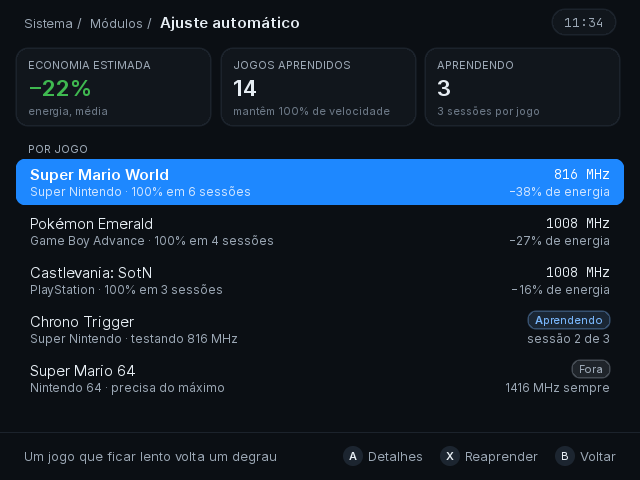
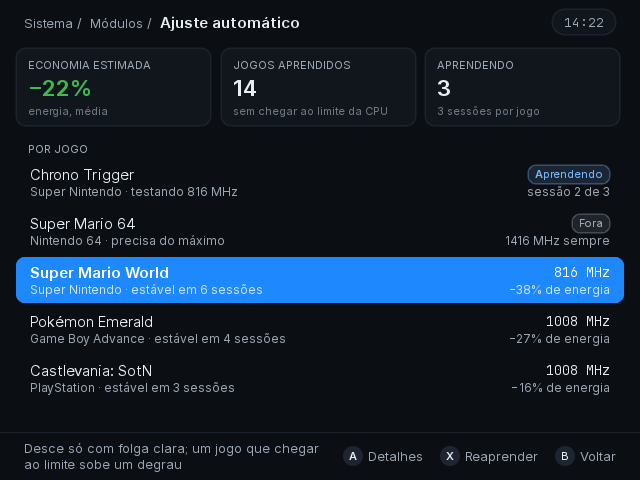
fix(ajuste-cpu): learn only from clear, active headroom
Sessions mostly idle (pause, menu) no longer count, and the ceiling goes
down only with clear room (p95 under 75 % and no second at the limit).
The texts speak of CPU occupancy and time at the limit, never speed;
the page says it does not count frames. The list sends the learning
games first, then the ones left out, then the learned, at most 20 items
with a last one counting the rest. A host test covers all of it.

diff --git a/crates/archr-ui/tests/support/settings_capture.rs b/crates/archr-ui/tests/support/settings_capture.rs
@@ -2669,14 +2669,28 @@ fn tune_pages(language: &str, picture: &std::path::Path) -> Vec<(&'static str, S
         tone,
         ..Item::default()
     };
-    let learned = |system: &str, n: &str| {
-        tr(
-            "@sub.learned",
-            &[("system", system), ("speed", "100"), ("n", n)],
-        )
-    };
+    let learned = |system: &str, n: &str| tr("@sub.learned", &[("system", system), ("n", n)]);
     let saving = |pct: &str| tr("@detail.saving", &[("pct", pct)]);
     let games = vec![
+        item(
+            "Chrono Trigger",
+            tr(
+                "@sub.testing",
+                &[("system", "Super Nintendo"), ("mhz", "816 MHz")],
+            ),
+            "",
+            tr("@detail.session", &[("n", "2"), ("of", "3")]),
+            &tr("@badge.learning", &[]),
+            Tone::Info,
+        ),
+        item(
+            "Super Mario 64",
+            tr("@sub.out", &[("system", "Nintendo 64")]),
+            "",
+            tr("@detail.always", &[("mhz", "1416 MHz")]),
+            &tr("@badge.out", &[]),
+            Tone::Muted,
+        ),
         item(
             "Super Mario World",
             learned("Super Nintendo", "6"),
@@ -2700,25 +2714,6 @@ fn tune_pages(language: &str, picture: &std::path::Path) -> Vec<(&'static str, S
             saving("16"),
             "",
             Tone::Plain,
-        ),
-        item(
-            "Chrono Trigger",
-            tr(
-                "@sub.testing",
-                &[("system", "Super Nintendo"), ("mhz", "816 MHz")],
-            ),
-            "",
-            tr("@detail.session", &[("n", "2"), ("of", "3")]),
-            &tr("@badge.learning", &[]),
-            Tone::Info,
-        ),
-        item(
-            "Super Mario 64",
-            tr("@sub.out", &[("system", "Nintendo 64")]),
-            "",
-            tr("@detail.always", &[("mhz", "1416 MHz")]),
-            &tr("@badge.out", &[]),
-            Tone::Muted,
         ),
     ];
     let stat = |title: &str, value: &str, subtitle: String, tone| Item {
@@ -2789,10 +2784,10 @@ fn tune_pages(language: &str, picture: &std::path::Path) -> Vec<(&'static str, S
     view.items.insert(
         target("row:barras"),
         vec![
-            bar("408 MHz", 91, Tone::Bad),
-            bar("816 MHz", 100, Tone::Info),
-            bar("1008 MHz", 100, Tone::Plain),
-            bar("1416 MHz", 100, Tone::Plain),
+            bar("408 MHz", 96, Tone::Bad),
+            bar("816 MHz", 68, Tone::Info),
+            bar("1008 MHz", 57, Tone::Plain),
+            bar("1416 MHz", 44, Tone::Plain),
         ],
     );
     view.items.insert(
@@ -2816,8 +2811,9 @@ fn tune_pages(language: &str, picture: &std::path::Path) -> Vec<(&'static str, S
     list.open(Page::Modules);
     let mut auto = list.clone();
     auto.open_module_page("ajuste-cpu", 0);
+    auto.cursor = 2;
     let mut learning = auto.clone();
-    learning.cursor = 3;
+    learning.cursor = 0;
     let mut detail = auto.clone();
     detail.modules.images.insert(game, picture.to_path_buf());
     detail.handle(Button::A);

diff --git a/examples/modules/ajuste-cpu/README.md b/examples/modules/ajuste-cpu/README.md
@@ -1,8 +1,9 @@
 # Ajuste automático de CPU
 
 Módulo oficial do archr-launcher (API 3, bash + jq, daemon). Aprende, jogo a
-jogo, o menor teto de frequência da CPU que mantém o jogo na velocidade total,
-e economiza bateria com ele. Só a CPU e só naquela abertura: nunca a GPU, a
+jogo, o menor teto de frequência da CPU em que o emulador não chega ao limite
+da CPU, e economiza bateria com ele. É uma heurística de ocupação da CPU, não
+uma contagem de quadros. Só a CPU e só naquela abertura: nunca a GPU, a
 memória ou o seu ajuste de governador.
 
 Como aprende:
@@ -11,11 +12,13 @@ Como aprende:
   (`cpu_max_khz`, um dos `cpu.opps` do `initialize`);
 - na volta, o `game.ended` traz a medida do `archr-perf-probe` (ocupação da
   thread mais ocupada do emulador, segundos no limite, corrente da bateria);
-- sessão sem perda (p95 abaixo de 92 % e menos de 2 s no limite): desce um
-  degrau; com perda: sobe um e marca o piso; três sessões estáveis no mesmo
-  teto: "aprendido". Um jogo aprendido que ficar lento volta um degrau;
-- sessões com menos de dois minutos não contam; N64, PSP, Dreamcast e Saturn,
-  e jogos lentos já no máximo, ficam fora;
+- folga clara (p95 abaixo de 75 % e nenhum segundo no limite): desce um
+  degrau; no limite (p95 de 92 % ou 2 s ou mais no limite): sobe um e marca
+  o piso; três sessões estáveis no mesmo teto: "aprendido". Um jogo
+  aprendido que chegar ao limite volta um degrau;
+- sessões com menos de dois minutos, ou ociosas na maior parte do tempo
+  (pausa, menu), não contam; N64, PSP, Dreamcast e Saturn, e jogos que já
+  chegam ao limite no máximo, ficam fora;
 - a economia compara a corrente média da bateria no teto aprendido com a do
   teto mais alto (RK817).
 
@@ -23,7 +26,8 @@ Arquivos: `module.toml`, `main.sh` (o laço JSON-RPC), `tune.jq` (a lógica),
 `locales/` (en, pt_BR, es, ru), `icons/` (Lucide 0.468.0) e `preview.png`.
 O aprendizado fica em `games.json`, na pasta de dados do módulo.
 
-Guia completo: `docs/modulos.md`, seção 9.
+Guia completo: `docs/modulos.md`, seção 9. Teste no PC:
+`bash examples/modules/ajuste-cpu.test.sh`.
 
 Publicar: tag `v1.0.0`, `tar -czf ajuste-cpu-1.0.0.tar.gz ajuste-cpu/`, e os
 assets da release (`ajuste-cpu-1.0.0.tar.gz`, `module.toml`, `preview.png`),
